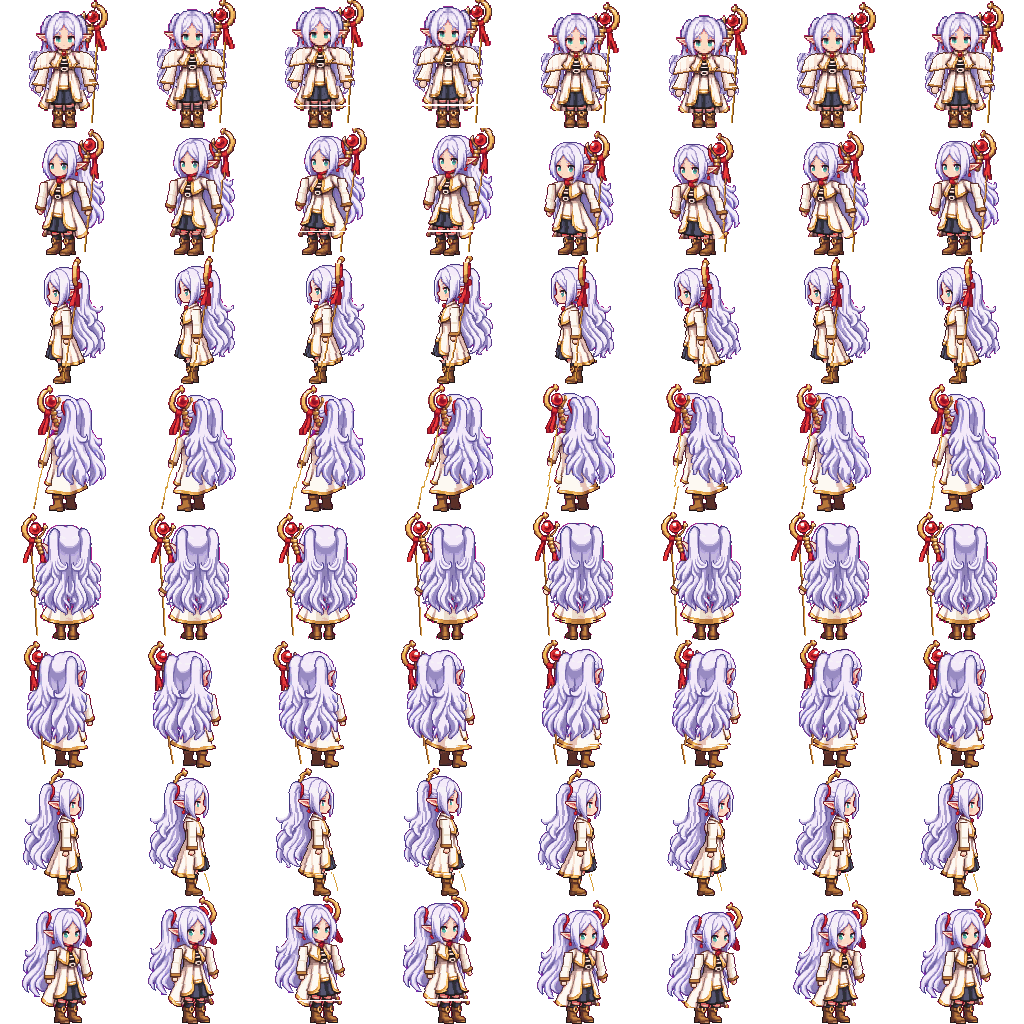
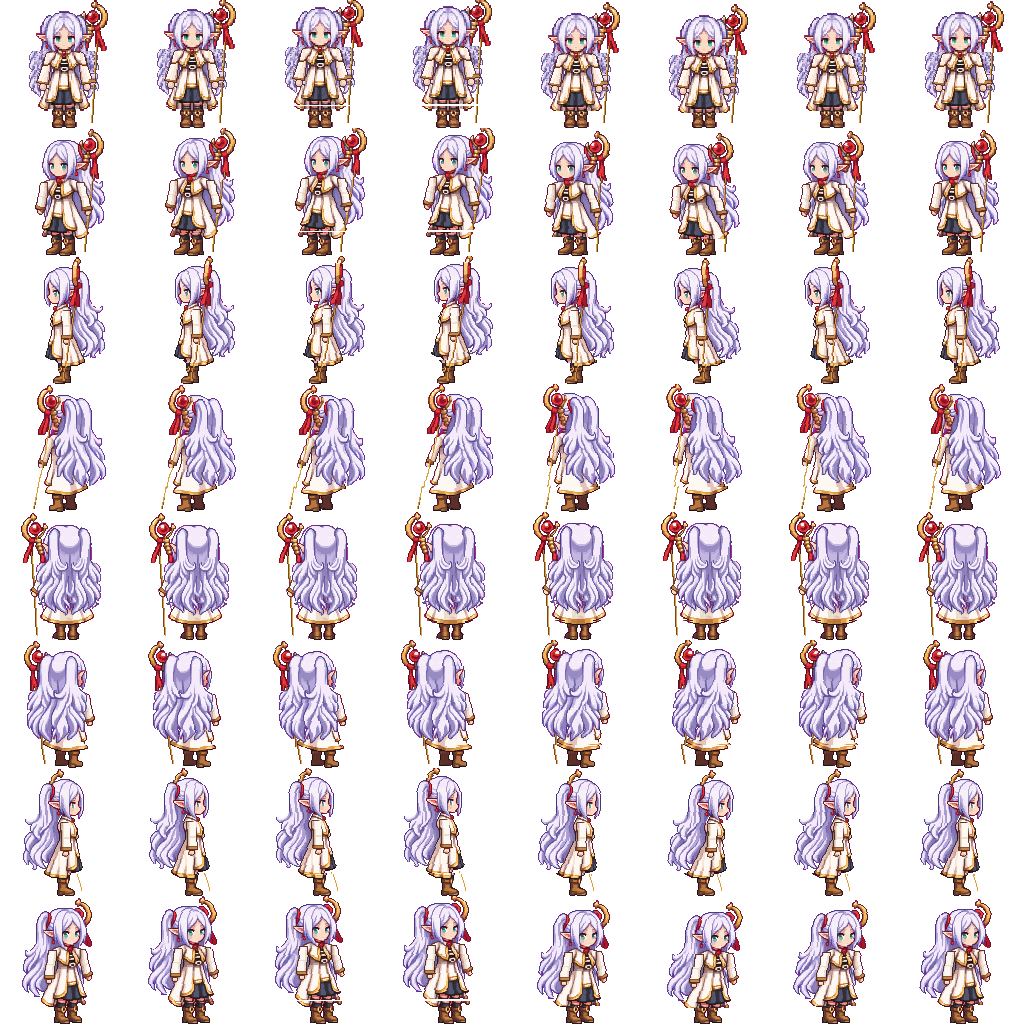
Front view: narrower shoulders, matching the character sheet
The capelet spread past the hair and made the shoulders about twice as
wide as on the original T-pose sheet. It now ends just past the
shoulders, and the bell sleeves hang from under it close to the coat.

Claude-Session: https://claude.ai/code/session_01EoAgD4nUuveX489aYfu2wP

diff --git a/tools/front_arms.py b/tools/front_arms.py
@@ -22,12 +22,12 @@ MIRROR = 129     # x + mirrored x: the front view is symmetric about x = 64.5
 COLLAR = 67      # the original collar and lapels (coat pixels above this row) stay on top
 # screen-left half, sprite px
 NECK = (51.0, 51.0)            # where the capelet's shoulder line leaves the collar
-SHOULDER = (35.0, 62.0)        # outer end of the shoulder line
-HEM = (33.0, 70.0, 67.0)       # hem: outer x, row at the outer corner, row at the collar
+SHOULDER = (44.0, 57.0)        # outer end of the shoulder line
+HEM = (43.0, 65.0, 64.0)       # hem: outer x, row at the outer corner, row at the collar
 # sleeve edges run from row TOP (under the capelet) to the cuff; the outer edge flares out
-TOP, CUFF = 64, 86
-INNER = (49.0, 45.0)
-OUTER = (40.0, 30.0)
+TOP, CUFF = 59, 84
+INNER = (51.0, 48.0)
+OUTER = (43.0, 35.0)
 CUFF_RISE = 2    # the cuff's outer corner sits this much higher than its inner corner
 BAND = 2         # gold cuff, rows
 
